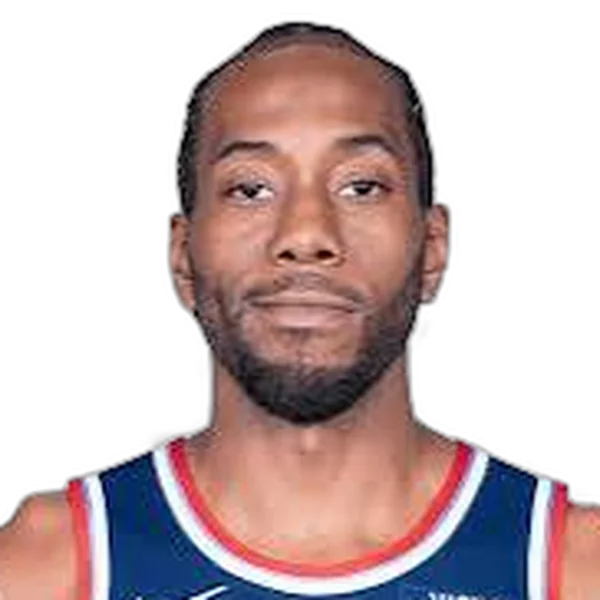
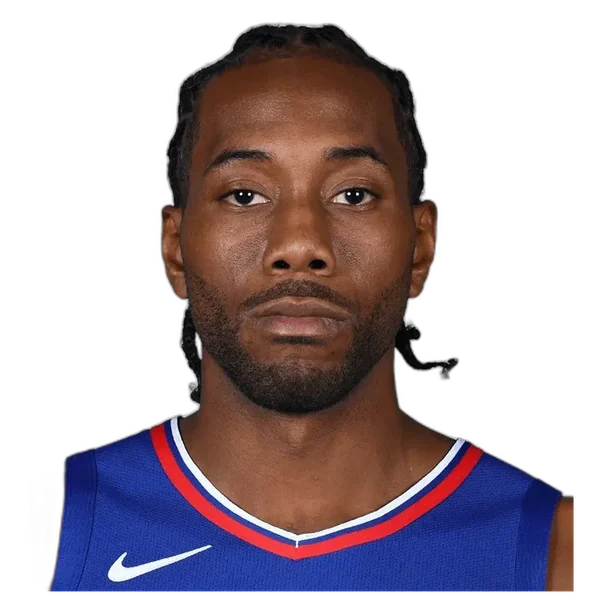
Kawhi Leonard: better Clippers photo, Spurs photo (2011-2017); sw v414
Claude-Session: https://claude.ai/code/session_01MwZ67aepJJhUZJuSBZ7izX

diff --git a/sw.js b/sw.js
@@ -1,5 +1,5 @@
 /* Offline support: always try the network first, fall back to the cache. */
-var CACHE = 'nba-eras-v413';
+var CACHE = 'nba-eras-v414';
 var SHELL = [
   './',
   'index.html',
